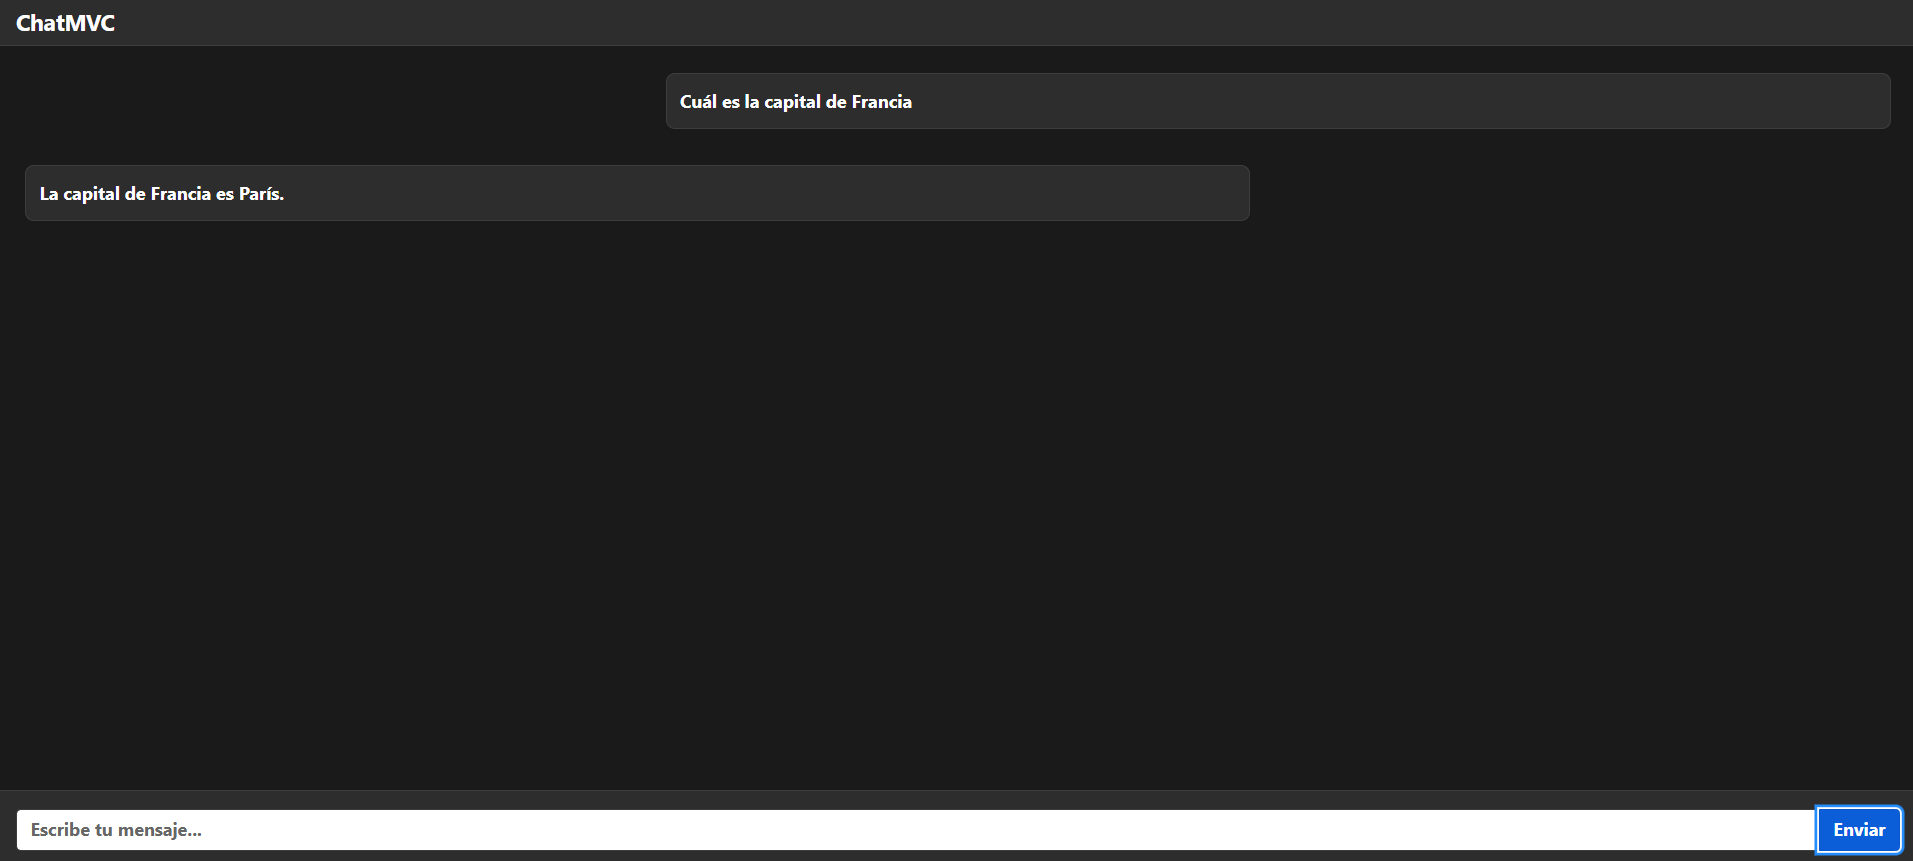
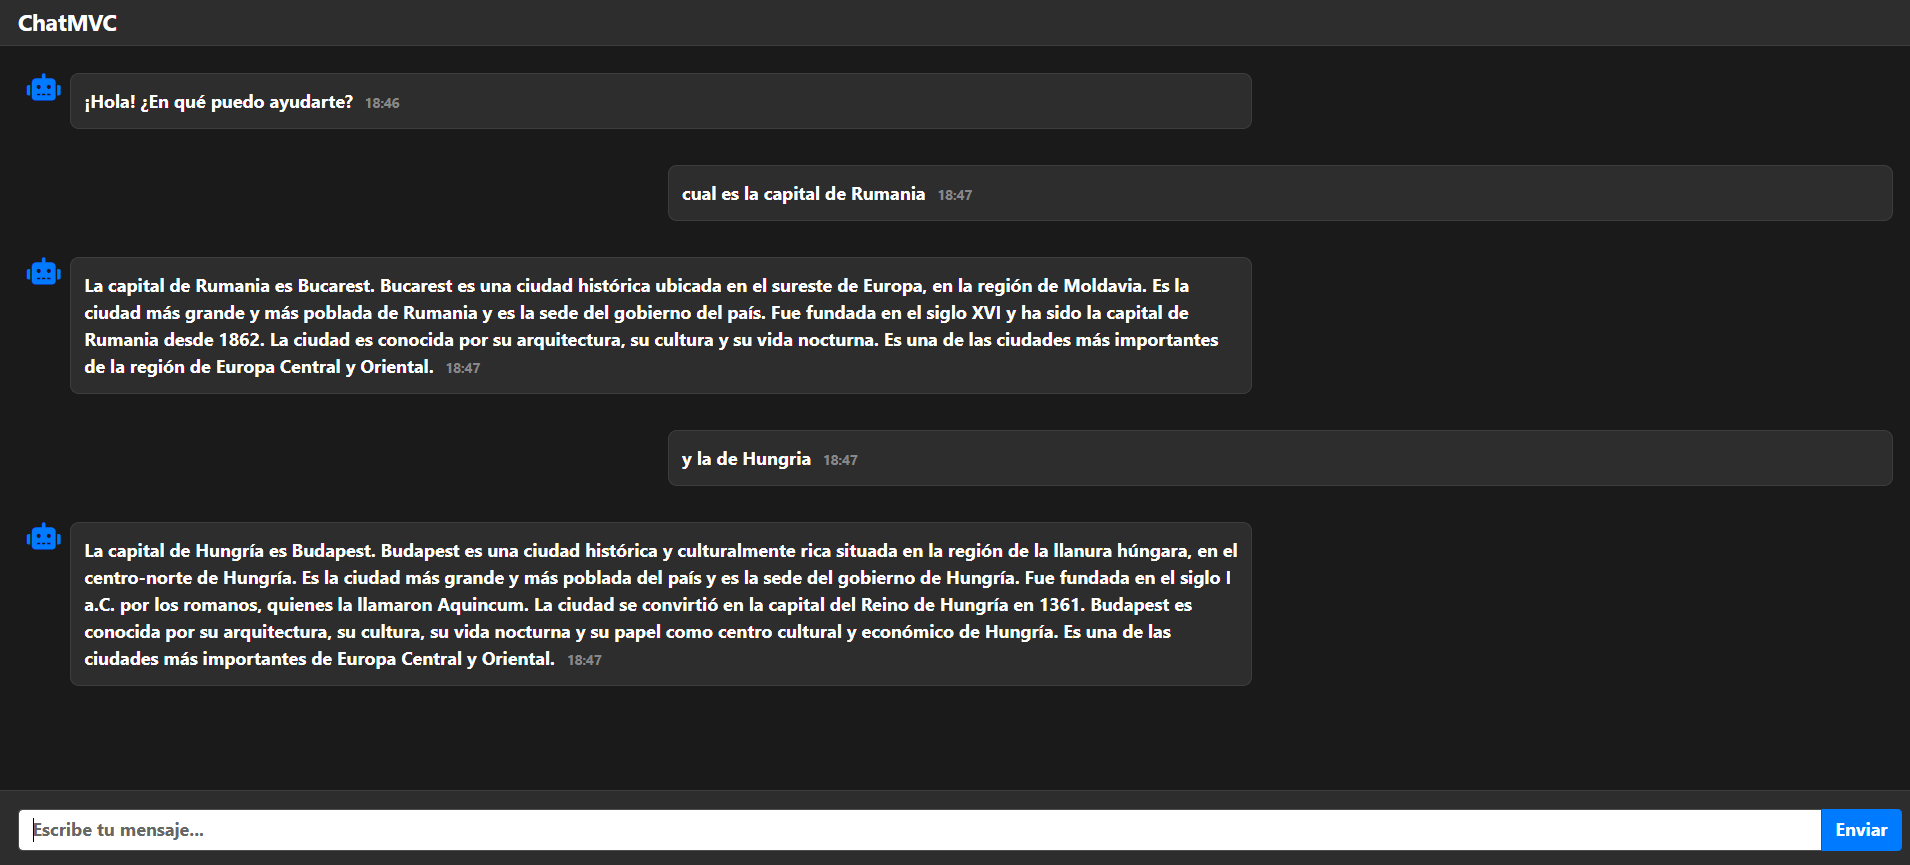
17.06.2025_typeWriterEffect

diff --git a/ChatMVC/Controllers/HomeController.cs b/ChatMVC/Controllers/HomeController.cs
@@ -2,6 +2,7 @@ using System.Diagnostics;
 using ChatMVC.Models;
 using ChatMVC.Services;
 using Microsoft.AspNetCore.Mvc;
+using System.Text.RegularExpressions;
 
 namespace ChatMVC.Controllers
 {
@@ -39,15 +40,21 @@ namespace ChatMVC.Controllers
                 // Get a response from Mistral
                 var response = await _mistralService.GetChatCompletionAsync(model.Messages);
 
-                // Add assistant response
-                model.Messages.Add(new ChatMessage { Role = "assistant", Content = response });
+                // Clean the response of any time patterns added by the server
+                string cleanedResponse = response;
+                cleanedResponse = Regex.Replace(cleanedResponse, @"\s*\(Hora:\s*\d{2}:\d{2}\)$", "").Trim();
+                cleanedResponse = Regex.Replace(cleanedResponse, @"^\s*\d{1,2}:\d{2,3}\s*", "").Trim();
 
-                return Json(response);
+                // Add assistant response
+                model.Messages.Add(new ChatMessage { Role = "assistant", Content = cleanedResponse });
+
+                return Json(cleanedResponse);
             }
             catch (Exception ex)
             {
                 _logger.LogError(ex, "Error processing chat message");
-                return Json("Sorry, an error occurred while processing your message");
+                // The literal error message should not contain the server time, so it is not cleaned up here
+                return Json("Lo siento, hubo un error al procesar tu mensaje");
             }
         }
 
